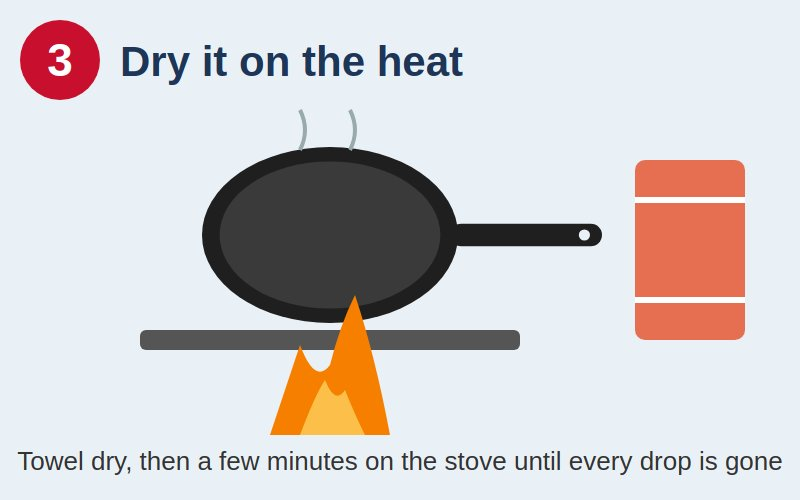
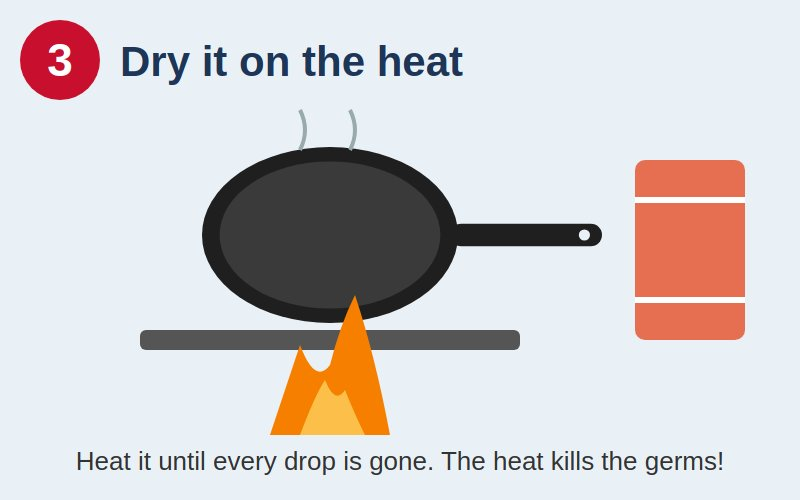
Cast iron post: no soap needed, heat sanitizes

Changed region(s): [[0.0, 0.9, 0.9688, 0.96]]

diff --git a/_posts/2026-11-16-cleaning-cast-iron.md b/_posts/2026-11-16-cleaning-cast-iron.md
@@ -33,7 +33,7 @@ Clean it soon after cooking, while it's still warm. Food comes off much more eas
 
 ![Step 2: scrub with hot water]({{ '/assets/img/cast-iron-step2-scrub.jpg' | relative_url }})
 
-Use hot water and a scrub brush or a chain-mail scrubber. A small squirt of dish soap is fine.
+Use hot water and a scrub brush or a chain-mail scrubber. **You don't need soap.** The heat in the next step does the germ-killing. If something greasy or smelly won't come off (like fish), one drop of soap is OK, but that's the exception, not the rule.
 
 - **Don't** leave it soaking in the wash tub.
 - **Don't** use steel wool. It scrubs off the seasoning.
@@ -44,6 +44,8 @@ Use hot water and a scrub brush or a chain-mail scrubber. A small squirt of dish
 ![Step 3: dry it on the heat]({{ '/assets/img/cast-iron-step3-dry.jpg' | relative_url }})
 
 Wipe it with a towel, then set it on the stove or coals for 2 to 3 minutes until every drop of water is gone. A towel alone leaves the metal damp, and damp metal rusts by morning.
+
+This step also **sanitizes** the pan. Germs can't survive on metal that's too hot to touch, so the heat does the job that soap does on other dishes. That's why cast iron gets heated, not soaped.
 
 ### 4. Wipe on a thin coat of oil
 
